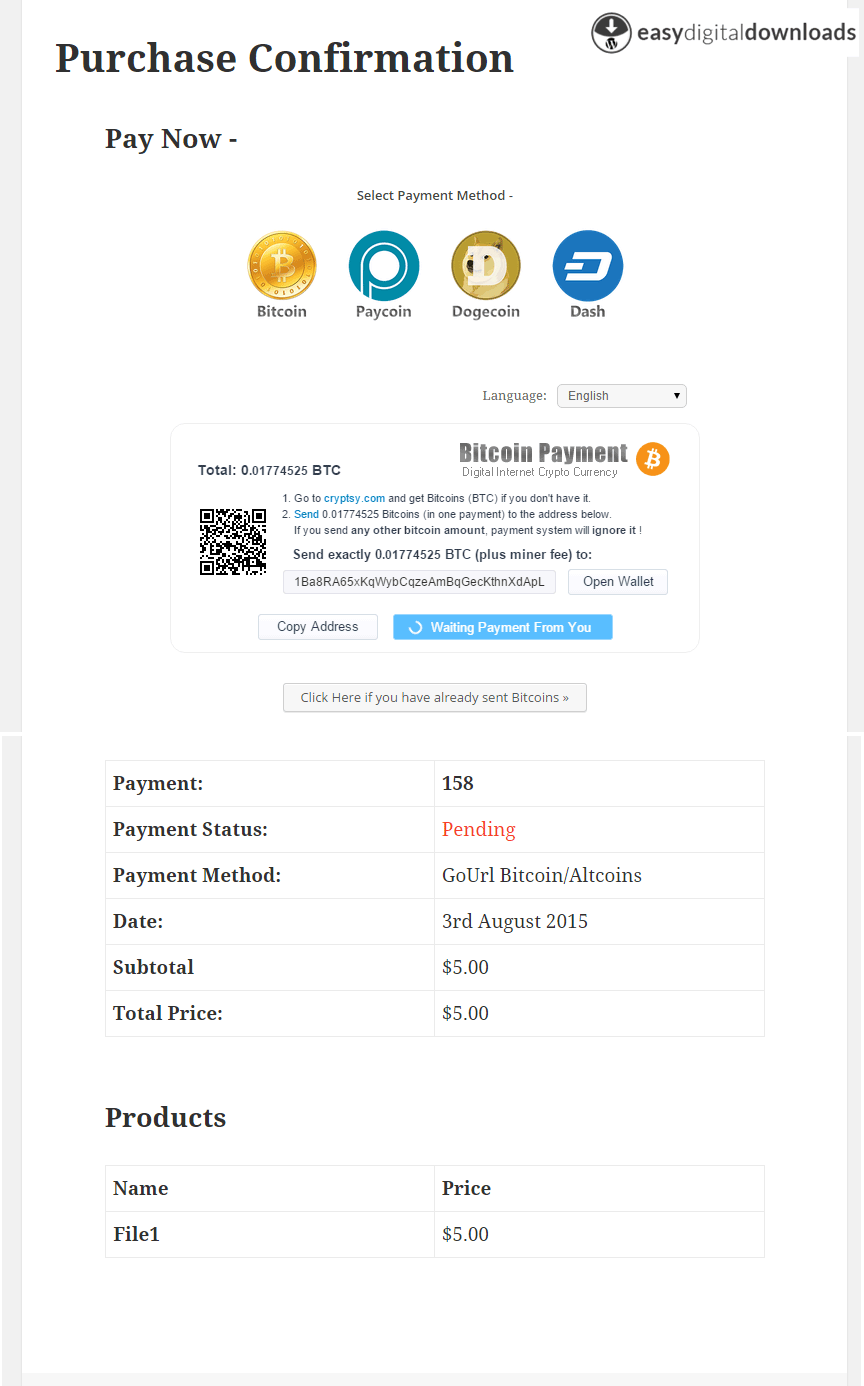
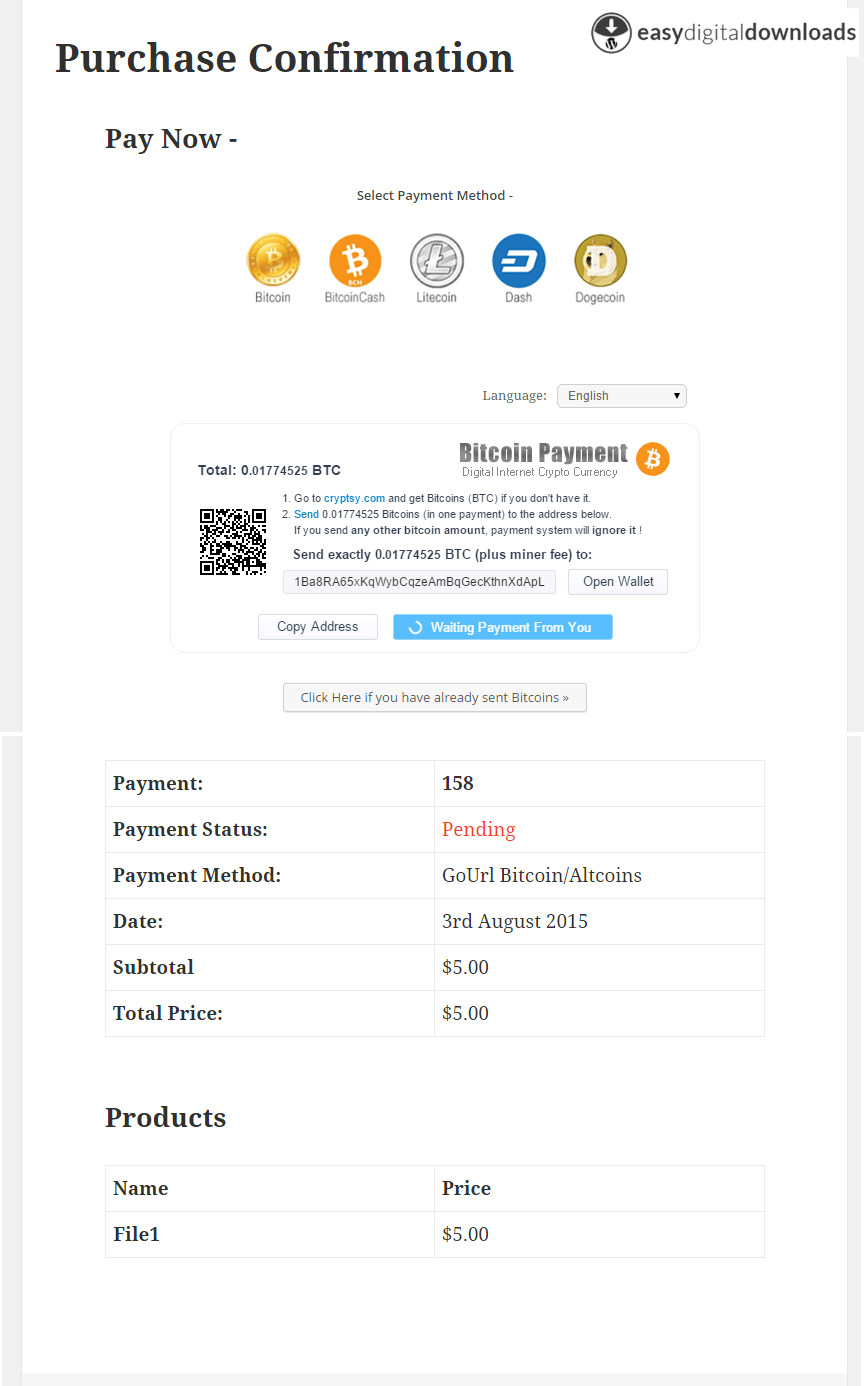
Version 1.0.2
Added Bitcoin Cash (BCH / BCC)

Changed region(s): [[0.2812, 0.1551, 0.7188, 0.2482]]

diff --git a/gourl-edd.php b/gourl-edd.php
@@ -2,8 +2,8 @@
 /*
 Plugin Name: 		GoUrl Easy Digital Downloads (EDD) - Bitcoin Altcoin Payment Gateway
 Plugin URI: 		https://gourl.io/bitcoin-easy-digital-downloads-edd.html
-Description:		Provides a <a href="https://gourl.io">GoUrl.io</a> Bitcoin/Altcoin Payment Gateway for <a href="https://wordpress.org/plugins/easy-digital-downloads/">Easy Digital Downloads 2.4.2+</a>. Direct Integration on your website, no external payment pages opens (as other payment gateways offer). Accept Bitcoin, Litecoin, Paycoin, Dogecoin, Dash, Speedcoin, Reddcoin, Potcoin, Feathercoin, Vertcoin, Vericoin, Peercoin, MonetaryUnit payments online. You will see the bitcoin/altcoin payment statistics in one common table on your website. No Chargebacks, Global, Secure. All in automatic mode.
-Version: 			1.0.1
+Description:		Provides a <a href="https://gourl.io">GoUrl.io</a> Bitcoin/Altcoin Payment Gateway for <a href="https://wordpress.org/plugins/easy-digital-downloads/">Easy Digital Downloads 2.4.2+</a>. Direct Integration on your website, no external payment pages opens (as other payment gateways offer). Accept Bitcoin, BitcoinCash, Litecoin, Dash, Dogecoin, Speedcoin, Reddcoin, Potcoin, Feathercoin, Vertcoin, Peercoin, MonetaryUnit payments online. You will see the bitcoin/altcoin payment statistics in one common table on your website. No Chargebacks, Global, Secure. All in automatic mode.
+Version: 			1.0.2
 Author: 			GoUrl.io
 Author URI: 		https://gourl.io
 License: 			GPLv2
@@ -84,7 +84,7 @@ if (!function_exists('gourl_edd_gateway_load') && !function_exists('gourl_edd_ac
 		
 		private $payments 			= array();
 		private $languages 			= array();
-		private $coin_names			= array('BTC' => 'bitcoin', 'LTC' => 'litecoin', 'XPY' => 'paycoin', 'DOGE' => 'dogecoin', 'DASH' => 'dash', 'SPD' => 'speedcoin', 'RDD' => 'reddcoin', 'POT' => 'potcoin', 'FTC' => 'feathercoin', 'VTC' => 'vertcoin', 'VRC' => 'vericoin', 'PPC' => 'peercoin', 'MUE' => 'monetaryunit');
+		private $coin_names			= array('BTC' => 'bitcoin', 'BCH' => 'bitcoincash', 'LTC' => 'litecoin', 'DASH' => 'dash', 'DOGE' => 'dogecoin', 'SPD' => 'speedcoin', 'RDD' => 'reddcoin', 'POT' => 'potcoin', 'FTC' => 'feathercoin', 'VTC' => 'vertcoin', 'PPC' => 'peercoin', 'MUE' => 'monetaryunit');
 		private $mainplugin_url		= '';
 		private $url				= '';
 		private $url2				= '';
@@ -383,8 +383,8 @@ if (!function_exists('gourl_edd_gateway_load') && !function_exists('gourl_edd_ac
 	    		$arr = $gourl->coin_names();
 	    		if (isset($arr[$currency])) 
 	    		{
-	    			if ($currency == "BTC") 	$decimals = 4;
-	    			elseif (in_array($currency, array("LTC", "XPY", "DASH"))) $decimals = 3;
+	    			if (in_array($currency, array("BTC", "BCH"))) 	$decimals = 4;
+	    			elseif (in_array($currency, array("LTC", "DASH"))) $decimals = 3;
 	    			else $decimals = 0;
 	    		}
 	    	}
@@ -654,7 +654,7 @@ if (!function_exists('gourl_edd_gateway_load') && !function_exists('gourl_edd_ac
 
 	
  }
- // end gourl_edd_gateway_load()  
+ // end gourl_edd_gateway_load()
 
 
 }

diff --git a/readme.md b/readme.md
@@ -2,19 +2,19 @@
 GoUrl Easy Digital Downloads (EDD) - Bitcoin Altcoin Payment Gateway
 -----------------------------------------------------------
 
-Version 1.0.1
+Version 1.0.2
 
 **Wordpress Plugin provides a Bitcoin/Altcoin Payment Gateway for Easy Digital Downloads (EDD) 2.4.2+ or higher.**
 
-Accept Bitcoin, Litecoin, Paycoin, Dogecoin, Dash, Speedcoin, Reddcoin, Potcoin, Feathercoin, Vertcoin, Vericoin, Peercoin, MonetaryUnit on Website Online
+Accept Bitcoin, BitcoinCash, Litecoin, Dash, Dogecoin, Speedcoin, Reddcoin, Potcoin, Feathercoin, Vertcoin, Peercoin, MonetaryUnit on Website Online
 
 * Author URI: [https://gourl.io](https://gourl.io)
 * Plugin Page: [https://gourl.io/bitcoin-easy-digital-downloads-edd.html](https://gourl.io/bitcoin-easy-digital-downloads-edd.html)
 * Wordpress Page: [https://wordpress.org/plugins/gourl-bitcoin-easy-digital-downloads-edd/](https://wordpress.org/plugins/gourl-bitcoin-easy-digital-downloads-edd/)
 * Screenshots: [https://gourl.io/bitcoin-easy-digital-downloads-edd.html#screenshot](https://gourl.io/bitcoin-easy-digital-downloads-edd.html#screenshot)
 * Requires at least: Wordpress 3.5 and Easy Digital Downloads 2.4.2
-* Tested up to: Wordpress 4.4 and Easy Digital Downloads 2.4.2 
-* Stable Tag: 1.0.1
+* Tested up to: Wordpress 4.9 and Easy Digital Downloads 2.4.2 
+* Stable Tag: 1.0.2
 * License: GNU Version 2 or Any Later Version
 
 
@@ -82,3 +82,4 @@ Plugin Options
   
 # ![Easy-Digital-Downloads-Plugin-Options](https://gourl.io/images/edd/screenshot-1.png)
  
+      
